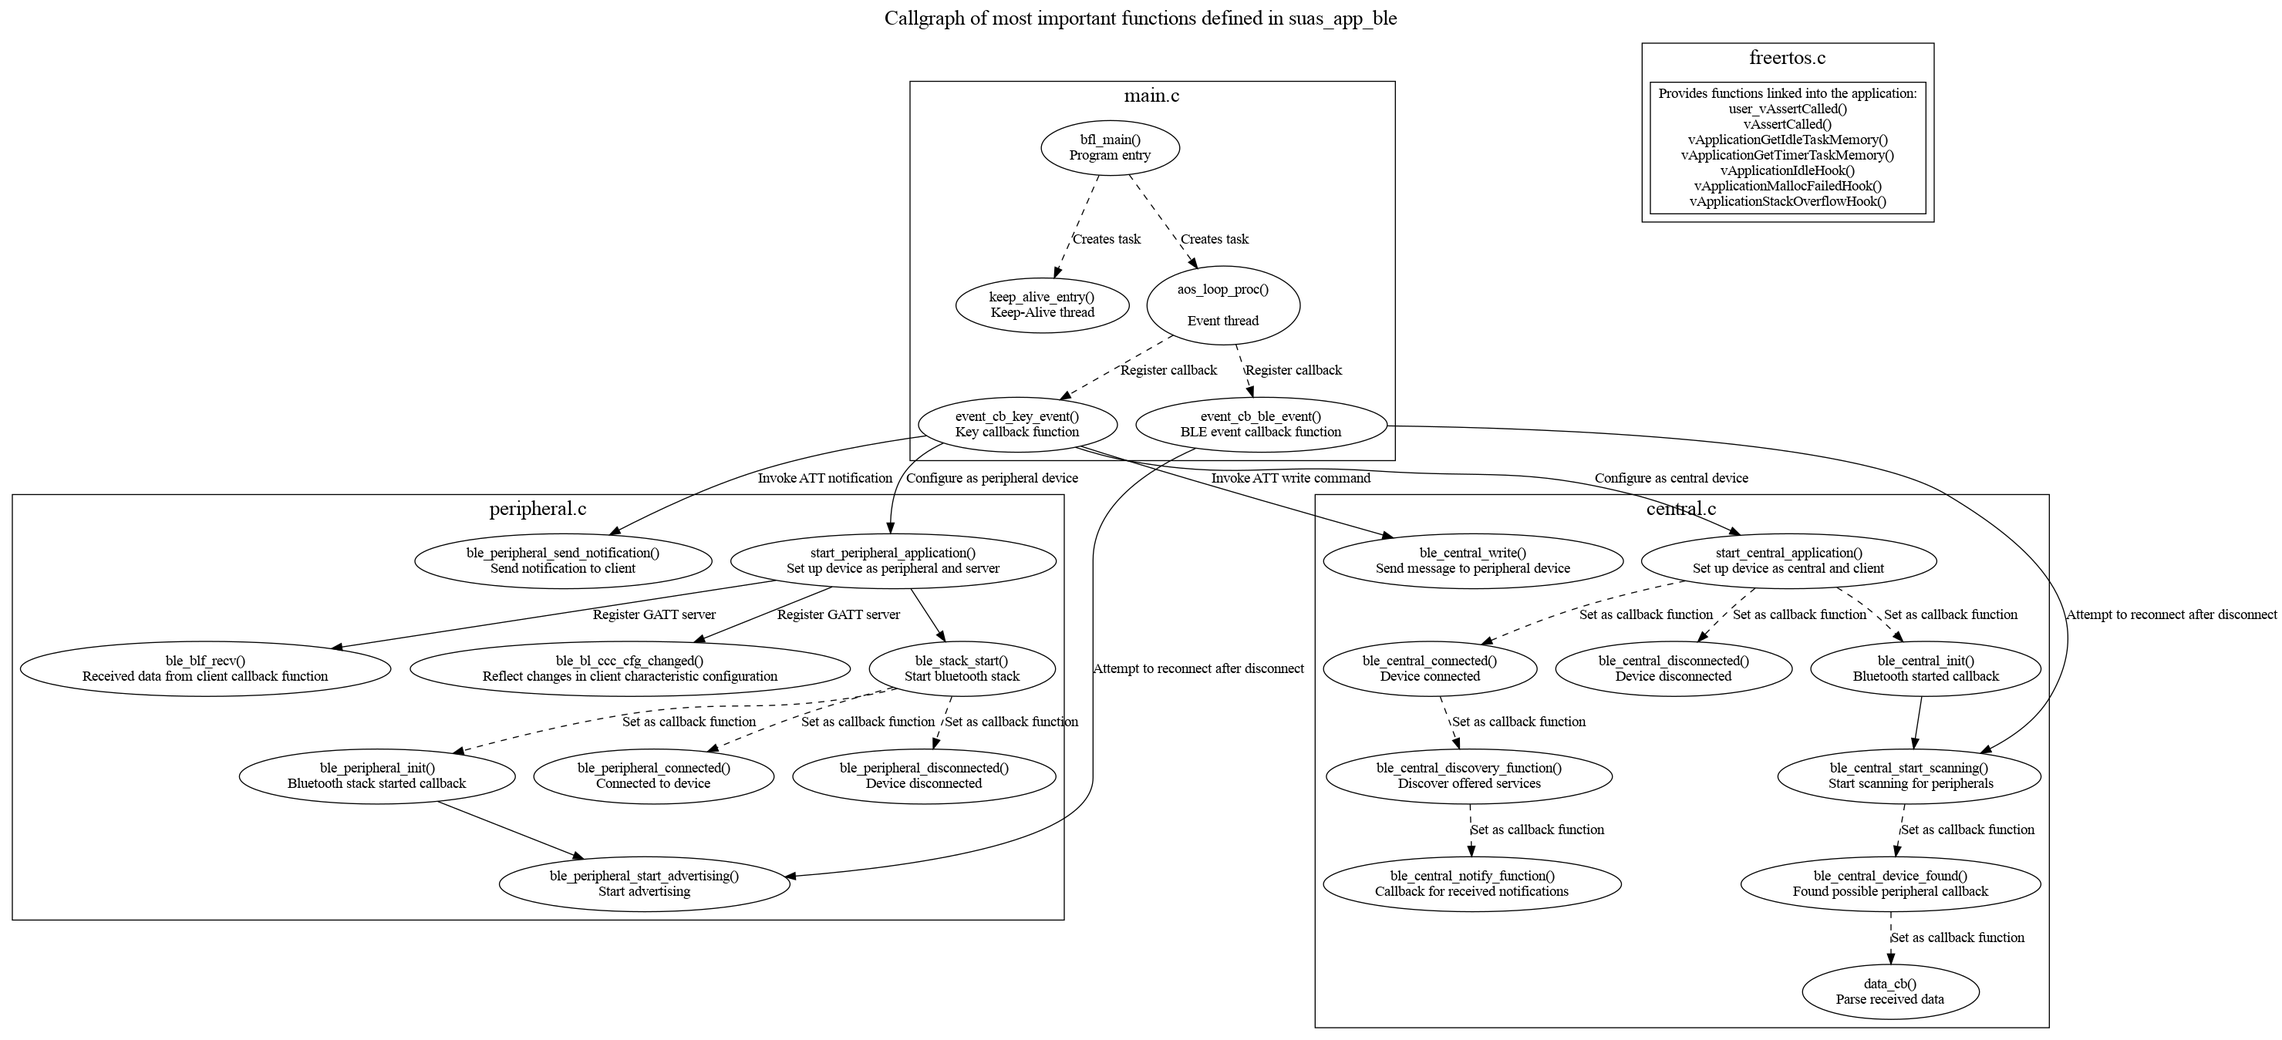
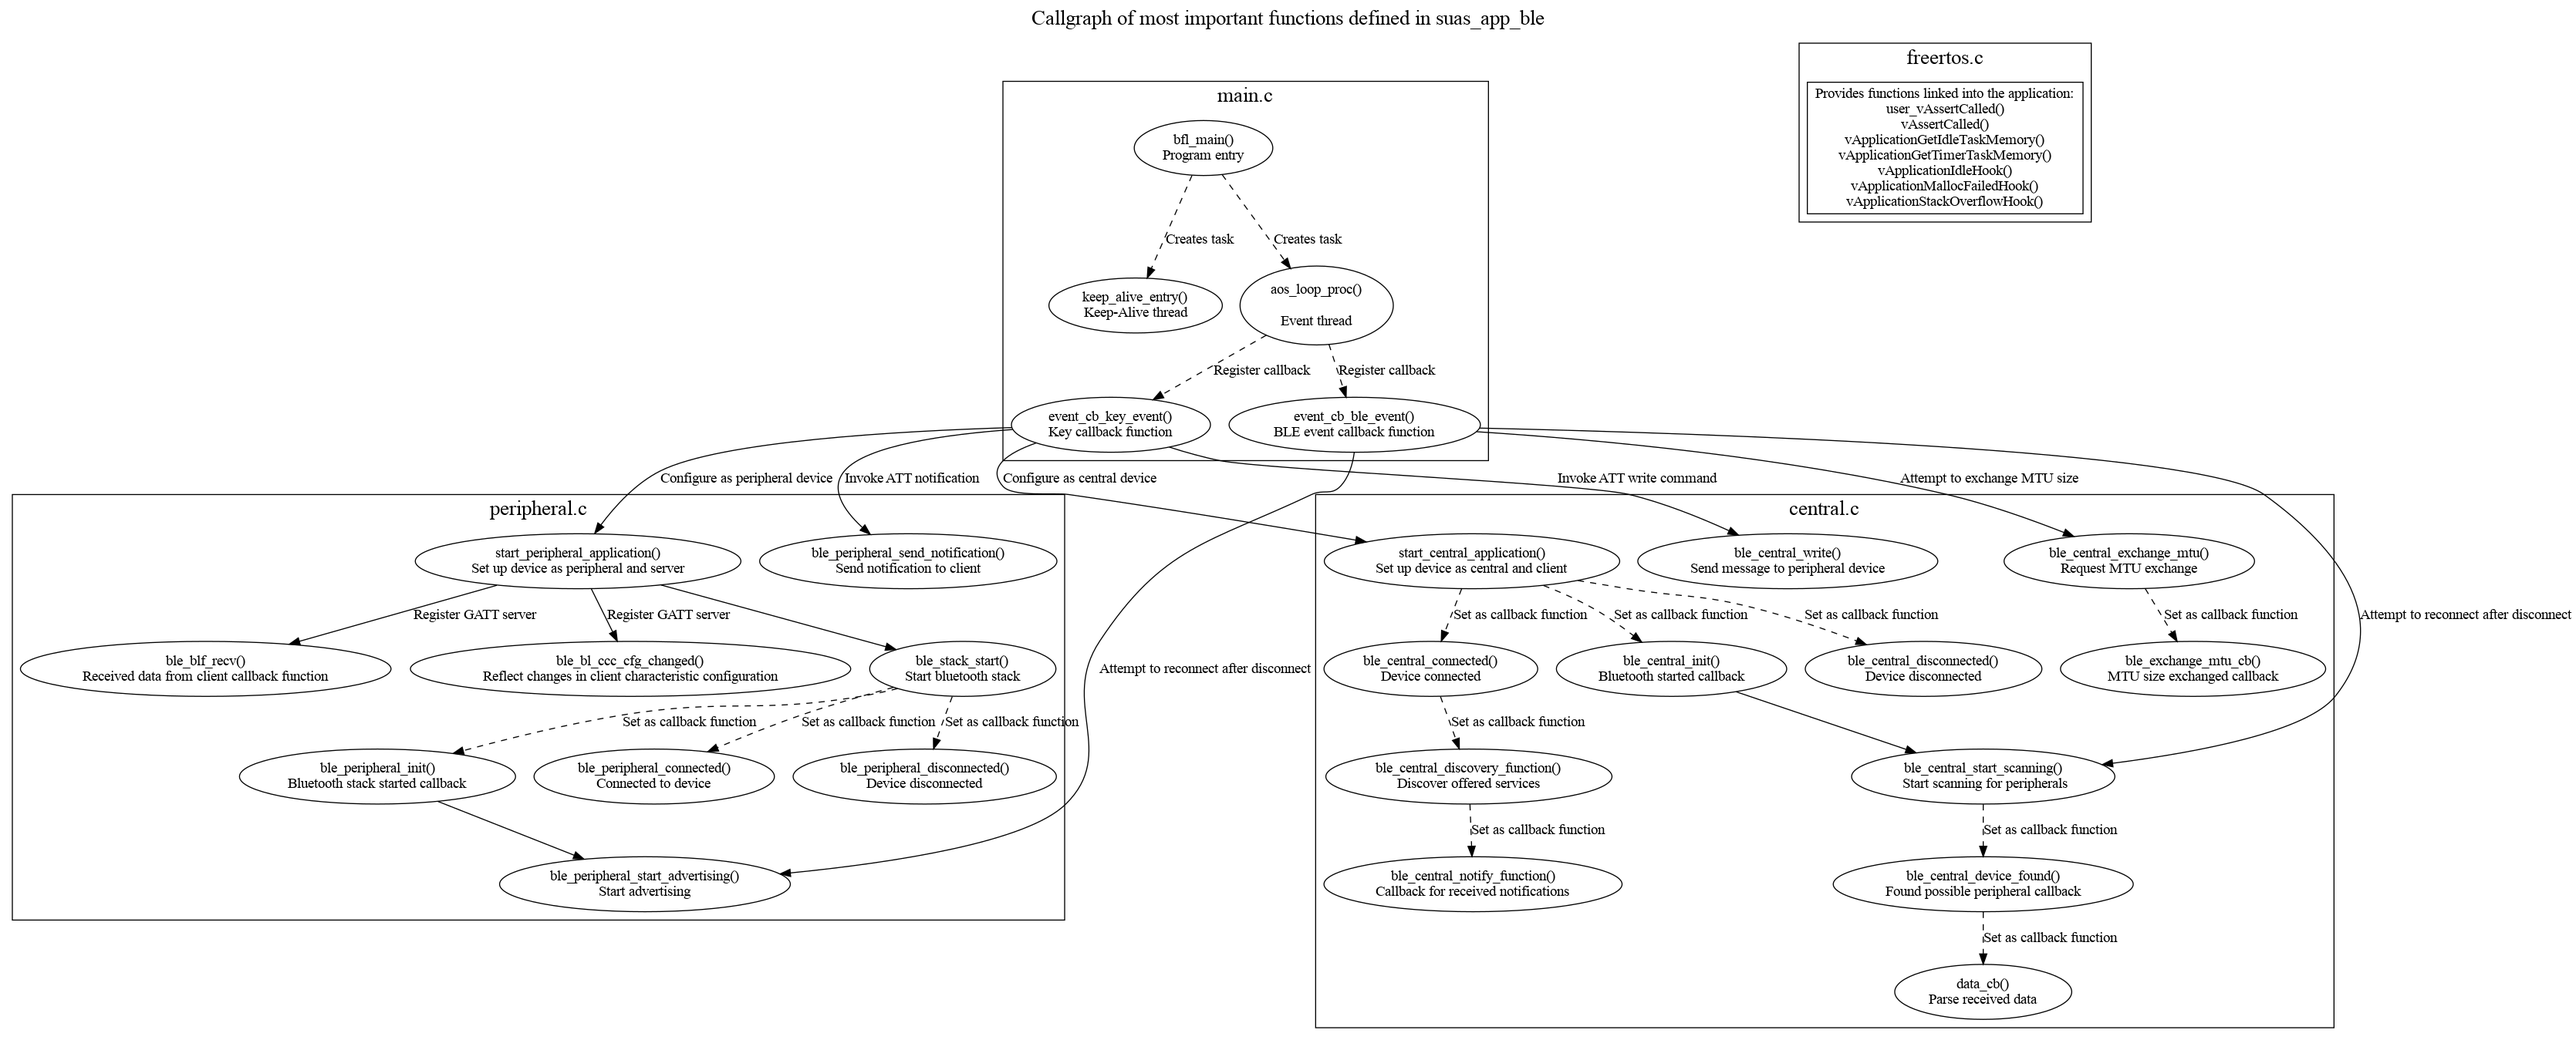
SUAS BLE: Add MTU exchange functionality to be able to exchange bigger messages

diff --git a/customer_app/suas_app_ble/suas_app_ble/central.c b/customer_app/suas_app_ble/suas_app_ble/central.c
@@ -23,12 +23,13 @@
 static struct bt_uuid_16 uuid = BT_UUID_INIT_16(0);
 static struct bt_gatt_discover_params discover_params;
 static struct bt_gatt_subscribe_params subscribe_params;
+static struct bt_gatt_exchange_params exchange_params;
 static u16_t bt_gatt_write_without_handle = 0;
 
 /* Send message to peripheral device */
 void ble_central_write() {
     // Data to send
-    char data[8] = "Central";
+    char data[19] = "Hello from Central";
 
     // Check if connection is available
     if (default_conn != NULL) {
@@ -40,7 +41,7 @@ void ble_central_write() {
                 4: Data length
                 5: Whether to sign data
         */
-        bt_gatt_write_without_response(default_conn, bt_gatt_write_without_handle, data, 8, 0);
+        bt_gatt_write_without_response(default_conn, bt_gatt_write_without_handle, data, 19, 0);
     }
 }
 
@@ -70,6 +71,32 @@ uint8_t ble_central_notify_function(struct bt_conn *conn,
     }
 
     return BT_GATT_ITER_CONTINUE;
+}
+
+/* Callback function indicating MTU exchange */
+void ble_exchange_mtu_cb(struct bt_conn *conn, u8_t err,
+    struct bt_gatt_exchange_params *params) {
+    printf("[CENTRAL] MTU exchange %s, MTU size: %d\r\n", err == 0U ? "sucessful": "failed",
+        bt_gatt_get_mtu(conn));
+}
+
+/* Initiate MTU exchange */
+void ble_central_exchange_mtu() {
+    if (!default_conn) {
+        printf("[CENTRAL] Not connected!\r\n");
+    } else {
+        // Register callback function and exchange MTU
+        exchange_params.func = ble_exchange_mtu_cb;
+        printf("[CENTRAL] Current MTU size: %d, requesting MTU exchange\r\n",
+            bt_gatt_get_mtu(default_conn));
+        int err = bt_gatt_exchange_mtu(default_conn, &exchange_params);
+
+        if (err) {
+            printf("[CENTRAL] MTU exchange failed\r\n");
+        } else {
+            printf("[CENTRAL] MTU exchange pending\r\n");
+        }
+    }
 }
 
 // Discover offered services
@@ -127,6 +154,9 @@ uint8_t ble_central_discovery_function(struct bt_conn *conn,
         } else {
             printf("[CENTRAL] Subscribed\r\n");
             bt_gatt_write_without_handle = subscribe_params.ccc_handle + 2;
+
+            // Post message notifying a device subscribed
+            aos_post_event(EV_BLE_TEST, BLE_DEV_SUBSCRIBED, NULL);
         }
 
         return BT_GATT_ITER_STOP;

diff --git a/customer_app/suas_app_ble/suas_app_ble/main.c b/customer_app/suas_app_ble/suas_app_ble/main.c
@@ -27,6 +27,7 @@
 #include <looprt.h>
 #include <loopset.h>
 #include <aos/yloop.h>
+#include <cli.h>
 
 // Standard input/output
 #include <stdio.h>
@@ -108,6 +109,11 @@ void event_cb_ble_event(input_event_t *event, void *private_data) {
       } else { // Peripheral
         ble_peripheral_start_advertising();
       }
+      break;
+    /* Only called by client: exchange MTU size*/
+    case BLE_DEV_SUBSCRIBED:
+      bl_gpio_output_set(LED_GREEN, 0);
+      ble_central_exchange_mtu();
       break;
     /* Unknown event */
     default:
@@ -199,6 +205,14 @@ void aos_loop_proc(void *pvParameters) {
 
   /* Start loop */
   aos_loop_init();
+
+  /* Console */
+  int fd_console = aos_open("/dev/ttyS0", 0);
+  if (fd_console >= 0) {
+    printf("[SYS] Console initialization");
+    aos_cli_init(0);
+    aos_poll_read_fd(fd_console, aos_cli_event_cb_read_get(), (void *) 0x12345678);
+  }
 
   /* Register event filters */
   aos_register_event_filter(EV_KEY, event_cb_key_event, NULL);

diff --git a/customer_app/suas_app_ble/suas_app_ble/peripheral.c b/customer_app/suas_app_ble/suas_app_ble/peripheral.c
@@ -79,7 +79,7 @@ struct bt_gatt_service ble_bl_server = BT_GATT_SERVICE(blattrs);
 /* Send notification */
 void ble_peripheral_send_notification() {
     // Data to send
-    char data[11] = "Peripheral";
+    char data[22] = "Hello from Peripheral";
 
     // Send data if connection available and notifications allowed
     if (default_conn != NULL && notify_flag == true) {
@@ -92,7 +92,7 @@ void ble_peripheral_send_notification() {
             3: Data to send
             4: Length of the data
         */
-        bt_gatt_notify(default_conn, &blattrs[1], data, 11);
+        bt_gatt_notify(default_conn, &blattrs[1], data, 22);
     }
 }
 

diff --git a/customer_app/suas_app_ble/suas_app_ble/include/ble.h b/customer_app/suas_app_ble/suas_app_ble/include/ble.h
@@ -9,6 +9,7 @@
 #define BLE_DEV_DISCONN 0x04
 #define BLE_SCAN_START  0x05
 #define BLE_SCAN_STOP   0x06
+#define BLE_DEV_SUBSCRIBED 0x07
 
 /* UUIDs to reference services */
 #define BT_UUID_TEST        BT_UUID_DECLARE_16(0xFFF0)

diff --git a/customer_app/suas_app_ble/suas_app_ble/include/central.h b/customer_app/suas_app_ble/suas_app_ble/include/central.h
@@ -5,5 +5,6 @@
 void ble_central_start_scanning();
 void start_central_application();
 void ble_central_write();
+void ble_central_exchange_mtu();
 
 #endif
